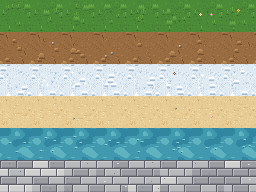
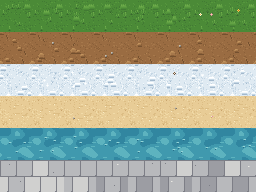
Ground tiles: flatten stone paving (flagstones, no bevel, no drop shadow)
Claude-Session: https://claude.ai/code/session_01UfpJh2yGrDMaNfv5mQuco1

Changed region(s): [[0.0, 0.8125, 1.0, 1.0]]

diff --git a/tools/pixel-art/ground.py b/tools/pixel-art/ground.py
@@ -261,18 +261,17 @@ def water_tile(variant):
 # ---------------- taş döşeme ----------------
 def pave_tile(variant):
     t = Tex(); r = random.Random(1100 + variant)
-    BH, BW = 8, 16
+    BH, BW = 16, 16
     for row in range(T // BH):
         off = (row % 2) * (BW // 2)
         for col in range(T // BW + 1):
             x0 = col * BW + off; y0 = row * BH
-            shade = r.choice((2, 2, 3, 3, 4))
+            shade = r.choice((2, 3, 3, 3, 4))
             for y in range(BH):
                 for x in range(BW):
                     c = PAVE[shade]
-                    if y == 0 or x == 0: c = PAVE[0]          # harç
-                    elif y == 1 or x == 1: c = PAVE[min(shade + 1, 5)]   # açık kenar (ışık sol üstten)
-                    elif y == BH - 1: c = PAVE[max(shade - 1, 0)]
+                    if (x in (0, BW - 1) and y in (0, BH - 1)): c = PAVE[1]
+                    elif y == 0 or x == 0: c = PAVE[1]          # harç: sadece koyu çizgi, kabartma yok (zeminle aynı seviye)
                     t.put(x0 + x, y0 + y, c)
             if r.random() < 0.25:
                 t.put(x0 + r.randrange(3, BW - 3), y0 + r.randrange(2, BH - 2), PAVE[1])
@@ -335,12 +334,15 @@ def wang_tile(lower, upper, nw, ne, sw, se, vi=0):
         for x in range(T):
             if mask[y][x]:
                 c = d[x, y]
-                if not M(x, y - 1) or not M(x, y - 2) and y > 1: c = LP[1]
+                if upper == 'pave': pass                  # taş zeminle aynı seviyede: alt malzemeye gölge düşmez
+                elif not M(x, y - 1) or not M(x, y - 2) and y > 1: c = LP[1]
                 elif not M(x - 1, y) or not M(x + 1, y): c = LP[2]
                 px[x, y] = c
             else:
                 c = g[x, y]
-                if M(x, y + 1) and y < T - 1: c = UP[1] if (x * 7 + y) % 5 else UP[2]
+                if upper == 'pave':
+                    if M(x, y + 1) or M(x, y - 1) or M(x - 1, y) or M(x + 1, y): c = UP[1]   # ince koyu kenar çizgisi, yükselti yok
+                elif M(x, y + 1) and y < T - 1: c = UP[1] if (x * 7 + y) % 5 else UP[2]
                 elif M(x, y - 1) and y > 0: c = UP[-2] if (x * 3) % 4 else UP[-1]
                 elif M(x - 1, y) or M(x + 1, y): c = UP[2]
                 px[x, y] = c
